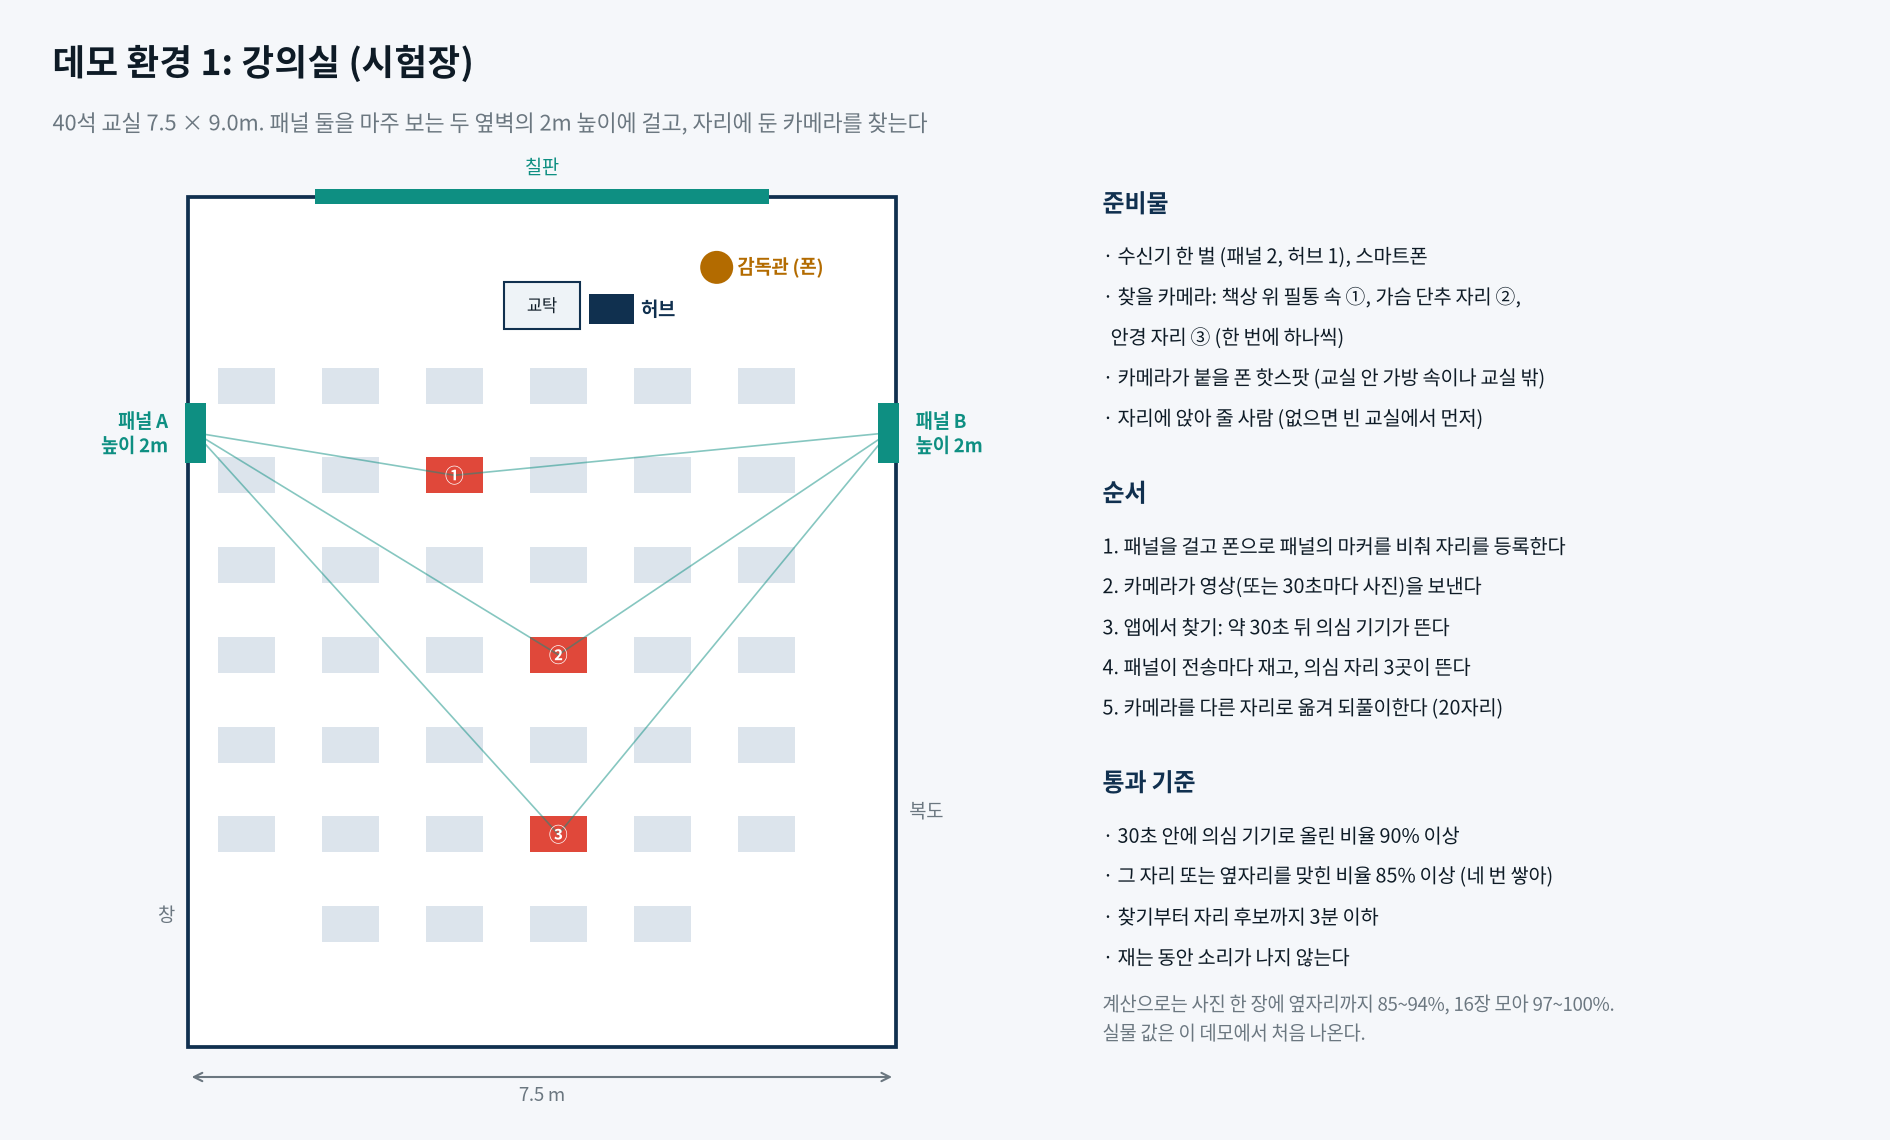
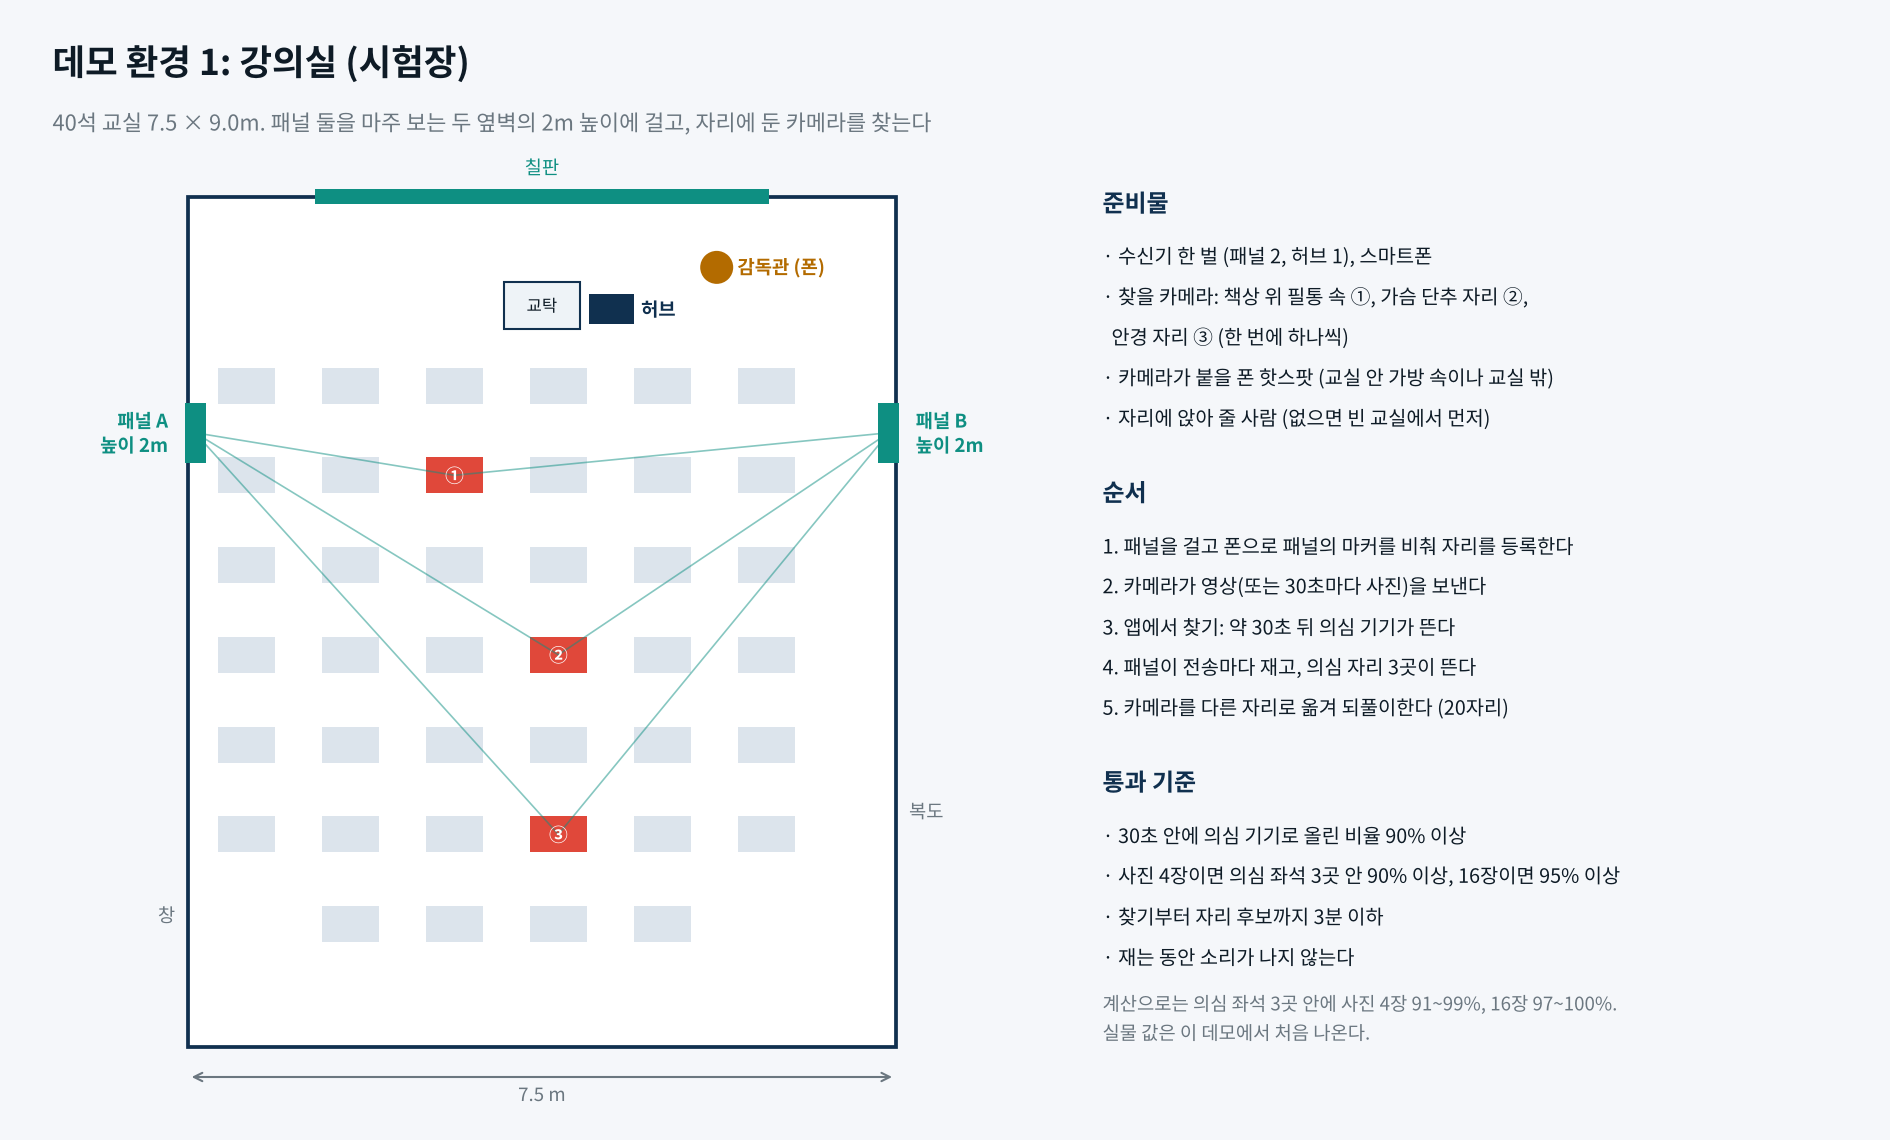
docs: 남은 옛 기준과 5 GHz 판 표현을 지금 결정에 맞춤 (#33)

diff --git a/cad/figures/design_figs.py b/cad/figures/design_figs.py
@@ -110,6 +110,7 @@ def sequence():
     for i in (4, 5): arrow(ax, (xs[i] + 2.55, 2.42), (xs[i + 1], 2.42))
     ax.text(xs[4], 1.62, "전송 한 번마다 3~7 을 되풀이한다 (사진 한 장을 보내는 0.2~1초 안에 한 번 잰다)", fontsize=9.5, color=AMBER, va="center")
     ax.text(0.35, 3.22, "1~2: 약 30초", fontsize=9.5, color=GRAY, va="center")
+    ax.text(xs[1] + 1.275, 3.335, "5 GHz 기기는 여기까지 (위치 재기는 막음)", fontsize=8.5, color=RED, ha="center", va="center")
     ax.plot([0.6, 11.4], [0.95, 0.95], color=LINE, lw=2)
     for t, lab in ((0, "첫 전송\n카메라를 알아챔"), (30, "둘째 전송\n첫 자리 후보"), (60, "셋째"), (90, "넷째"), (120, "다섯째\n네 번 쌓은 결과")):
         x = 0.9 + t * 0.076; ax.add_patch(Rectangle((x - 0.05, 0.8), 0.1, 0.3, fc=RED, ec="none")); ax.text(x, 0.6, "%d초" % t, fontsize=8.5, color=GRAY, ha="center"); ax.text(x + 0.12, 1.32, lab, fontsize=8.5, color=INK, va="center", linespacing=1.3)
@@ -215,8 +216,8 @@ def demo_class():
     tx = 7.35; y = 6.25
     y = block(ax, tx, y, "준비물", ["· 수신기 한 벌 (패널 2, 허브 1), 스마트폰", "· 찾을 카메라: 책상 위 필통 속 ①, 가슴 단추 자리 ②,", "  안경 자리 ③ (한 번에 하나씩)", "· 카메라가 붙을 폰 핫스팟 (교실 안 가방 속이나 교실 밖)", "· 자리에 앉아 줄 사람 (없으면 빈 교실에서 먼저)"])
     y = block(ax, tx, y, "순서", ["1. 패널을 걸고 폰으로 패널의 마커를 비춰 자리를 등록한다", "2. 카메라가 영상(또는 30초마다 사진)을 보낸다", "3. 앱에서 찾기: 약 30초 뒤 의심 기기가 뜬다", "4. 패널이 전송마다 재고, 의심 자리 3곳이 뜬다", "5. 카메라를 다른 자리로 옮겨 되풀이한다 (20자리)"])
-    y = block(ax, tx, y, "통과 기준", ["· 30초 안에 의심 기기로 올린 비율 90% 이상", "· 그 자리 또는 옆자리를 맞힌 비율 85% 이상 (네 번 쌓아)", "· 찾기부터 자리 후보까지 3분 이하", "· 재는 동안 소리가 나지 않는다"])
-    ax.text(tx, y + 0.08, "계산으로는 사진 한 장에 옆자리까지 85~94%, 16장 모아 97~100%.\n실물 값은 이 데모에서 처음 나온다.", fontsize=9, color=GRAY, va="center", linespacing=1.5)
+    y = block(ax, tx, y, "통과 기준", ["· 30초 안에 의심 기기로 올린 비율 90% 이상", "· 사진 4장이면 의심 좌석 3곳 안 90% 이상, 16장이면 95% 이상", "· 찾기부터 자리 후보까지 3분 이하", "· 재는 동안 소리가 나지 않는다"])
+    ax.text(tx, y + 0.08, "계산으로는 의심 좌석 3곳 안에 사진 4장 91~99%, 16장 97~100%.\n실물 값은 이 데모에서 처음 나온다.", fontsize=9, color=GRAY, va="center", linespacing=1.5)
     save(fig, "데모_환경_교실.png")
 
 

diff --git a/docs/다른 방법 검토.md b/docs/다른 방법 검토.md
@@ -20,7 +20,7 @@ tags:
 | 전파가 아닌 방법 | 렌즈 반사(LAPD), 열(HeatDeCam), 카메라 메모리가 내는 전자파(Eye of Sauron). 녹화만 하는 카메라까지 찾지만 가까이 가야 하거나 장비가 비싸다. 숙소 방의 보완으로 둔다 |
 | 그래서 무엇이 가장 좋나 | **패널 둘 + 의심 자리 세 곳만 감독관이 확인.** 사각지대를 더 줄여야 하면 셋째 패널(칠판 윗변 가운데)을 더한다. 천장은 필요 없다 ([배치 계산](배치%20계산.md)) |
 | 5 GHz 카메라를 찾나 | **찾는다 (있다·없다, 어느 기기).** ESP32-C5 가 2.4·5 GHz 를 다 받는다. 한 번에 한 대역이라 번갈아 듣는다. 동글이면 MT7610U |
-| 5 GHz 카메라의 자리까지 | **지금 판으로는 안 된다.** 안테나 판(CHW1010)이 2.4 GHz 전용이다. 5 GHz 판(패치 16개, 간격 29 mm)을 새로 만들면 계산상 2.4 GHz 와 거의 같다 (5절). 스위치(HMC7992, 6 GHz 까지)와 ESP32-C5 는 그대로 쓴다. 졸업작품에서는 판 하나를 시험 삼아 만드는 데까지로 둔다. 그때까지 5 GHz 기기는 위치 재기를 막는다 (재면 엉뚱한 자리가 나온다, 5.6절) |
+| 5 GHz 카메라의 자리까지 | **지금 판으로는 안 된다.** 안테나 판(CHW1010)이 2.4 GHz 전용이다. 두 대역 판(필름 안테나 16개, 33 mm)을 만들면 계산상 지금 판과 1~2점 차이다 (5.5절). ESP32-C5 는 그대로 쓴다. 작품 범위에서는 선택이다. 그때까지 5 GHz 기기는 위치 재기를 막는다 (재면 엉뚱한 자리가 나온다, 5.6절) |
 | 2.4 · 5 GHz 를 한 판으로 | **사서 쓰는 판은 없다** (CoreHW 판은 2.4 GHz 전용이고, Cisco 의 두 대역 배열은 자기 공유기 전용이다). **만들면 된다.** 4 × 4 를 33 mm 간격으로 두면 계산상 2.4 · 5.18 · 5.8 GHz 모두 지금 판과 1~2점 차이다 (지금 간격 37.5 mm 는 5.8 GHz 에서 3~5점 낮다). 두 대역 필름 안테나 16개 + 6 GHz 스위치로 패널 하나 약 23만 원. 기준 안테나 · 합침기 · 위상 선(0 · 11 · 30 · 58 mm)도 바꾼다. 데모 뒤의 일로 둔다 (5.5절) |
 | 5 GHz 카메라가 많나 | 적다. 찾아본 초소형 카메라는 거의 다 '2.4 GHz 만 된다'고 적혀 있다. 그런 카메라를 폰에 붙이려면 폰 핫스팟을 2.4 GHz 로 열어야 한다 |
 
@@ -194,7 +194,7 @@ tags:
 **권하는 길.**
 
 1. 데모(관문 1~5)는 지금 판과 지금 선(0 · 21 · 42 · 63 mm)으로 간다. 선을 미리 0 · 11 · 30 · 58 mm 로 바꾸면 2.4 GHz 하나로는 단계를 잴 수 없어 20~30도 틀린 채로 쓴다.
-2. 5 GHz 판은 데모가 된 뒤 ① 로 하나 만들어 본다. 그때 기준 안테나 · 합침기 · 위상 선을 함께 바꾸고, 펌웨어의 단계 재기를 여러 채널 묶음으로 바꾼다.
+2. 두 대역 판(선택 범위)은 데모가 된 뒤 ① 로 하나 만들어 본다. 그때 기준 안테나 · 합침기 · 위상 선을 함께 바꾸고, 펌웨어의 단계 재기를 여러 채널 묶음으로 바꾼다.
 3. 계산에 없는 것: 안테나끼리 서로 끼치는 영향(상호 결합), 쌍극과 반사판의 실제 무늬, 선 16가닥의 길이 차이. 아는 자리에 송신기를 두고 보정표를 한 번 만든다 (관문 4 의 대안과 같다).
 4. 보고된 폰 핫스팟의 5 GHz 는 거의 149~165번이다 ([TP-Link 커뮤니티](https://community.tp-link.com/en/home/forum/topic/866886)). 레이더를 피해야 하는 채널(DFS, 52~144번)이 아니므로 ([정리 글](https://jamesst.one/posts/dfs-wifi-channels)), 우리가 먼저 패킷을 쏘는 것도 그 채널에서는 규정 걱정이 적다.
 

diff --git a/docs/README.md b/docs/README.md
@@ -50,7 +50,7 @@ tags:
 - **부품은 다섯 번에 나눠 산다.** 가장 위험한 두 가지(ESP32-C5 가 ACK 의 CSI 를 내는가, 세기만으로 위상이 되찾아지는가)는 처음 6.6만 원 안에서 결판이 난다. 사기 전에 확인할 수 있는 것은 확인했다 ([사전 검증](사전%20검증.md)). 안 되어도 돌판으로 돌아가지 않고 받는 쪽만 바꾼다 ([되는지 근거와 대안](되는지%20근거와%20대안.md)).
 - **패널을 걸 곳을 다시 찾았다 (2026-11-18).** 네 벽의 세 높이와 천장, 후보 122곳의 두 곳·세 곳을 모두 견줬다. 사진을 16장 넘게 보내는 카메라라면 창 쪽 패널을 칠판 쪽으로 옮긴 두 곳이 사각지대를 없앤다 ([배치 계산](배치%20계산.md)). 천장은 필요 없다.
 - **몰카도 찾는다 (계산).** 숙소 방에서 패널 하나를 방 가운데에서 다섯 쪽으로 돌려 재면 가운데값 0.26 m, 두 곳에서 더 재면 0.21 m 다 ([숙소 방 계산](숙소%20방%20계산.md)).
-- **패널 말고 더 좋은 방법도 견줬다 (2026-11-18).** 패널 하나는 사진을 16장 모아도 자리를 65~69% 만 맞히고, 들고 다니는 방법들은 시험 중에 쓸 수 없다. 패널 둘 + 의심 자리 셋을 감독관이 확인하는 조합을 권한다. 5 GHz 카메라는 탐지는 되고, 자리는 5 GHz 판을 새로 만들면 계산상 2.4 GHz 와 거의 같다 ([다른 방법 검토](다른%20방법%20검토.md)). 두 대역을 다 듣는 판은 사서 쓸 것이 없어 만들어야 하고, 4 × 4 를 33 mm 간격으로 두면 2.4 · 5.18 · 5.8 GHz 모두 계산상 지금 판과 1~2점 차이다 (5.5절).
+- **패널 말고 더 좋은 방법도 견줬다 (2026-11-18).** 패널 하나는 사진을 16장 모아도 자리를 65~69% 만 맞히고, 들고 다니는 방법들은 시험 중에 쓸 수 없다. 패널 둘 + 의심 자리 셋을 감독관이 확인하는 조합을 권한다. 5 GHz 카메라는 탐지는 되고, 지금 판으로는 위치 재기를 막는다 (재면 엉뚱한 자리가 나온다, [다른 방법 검토](다른%20방법%20검토.md) 5.6절). 두 대역을 다 듣는 판은 사서 쓸 것이 없어 만들어야 하고, 4 × 4 를 33 mm 간격으로 두면 2.4 · 5.18 · 5.8 GHz 모두 계산상 지금 판과 1~2점 차이다 (5.5절).
 - **관문 1~5 를 사기 전에 자료로 판정했다.** 물리나 규격으로 막히는 관문은 없다. 가장 불확실한 것은 관문 2 의 숫자(ESP32-C5 의 CSI 세기가 얼마나 고른가)다 ([되는지 근거와 대안](되는지%20근거와%20대안.md) 6절).
 - 출력 파일 8개, 다섯 판(1·2판은 두 번), 약 22시간, 필라멘트 0.8 kg, 받침 없이 (Bambu X1 Carbon, PLA).
 - 장치 코드는 패널의 계산(`firmware/core/panel.py`)과 검사까지 있다. ESP32 에 올릴 코드와 허브의 패널 연결은 다음 일이다.

diff --git a/docs/데모 환경.md b/docs/데모 환경.md
@@ -11,7 +11,7 @@ tags:
 
 | 데모 | 보이려는 것 | 수신기 | 통과 기준 |
 |---|---|---|---|
-| 1. 강의실 | 40석 교실에서 시험지를 찍어 보내는 카메라가 **어느 자리**인지 | 패널 둘 + 허브 | 그 자리나 옆자리를 85% 이상 (전송 네 번을 쌓아) |
+| 1. 강의실 | 40석 교실에서 시험지를 찍어 보내는 카메라가 **어느 자리**인지 | 패널 둘 + 허브 | 의심 좌석 3곳 안에 90% 이상 (사진 네 장), 16장이면 95% 이상 |
 | 2. 숙소 방 | 방에 숨긴 카메라가 **벽·천장의 어디**인지 | 패널 하나 + 허브 | 가운데값 0.5 m 이하, 1 m 안 80% 이상 |
 | 3. 탁상 | 상자 셋 가운데 **어느 상자**에 카메라가 있는지 (발표 자리에서 2분) | 패널 하나 + 허브 | 열 번 가운데 아홉 번 |
 
@@ -48,10 +48,10 @@ tags:
 | 항목 | 기준 | 계산값 (위 자리, 2026-11-18) |
 |---|---|---|
 | 30초 안에 의심 기기로 오른다 | 90% 이상 | - |
-| 그 자리나 옆자리 (전송 한 번) | 70% 이상 | 책상 위 85, 가슴 85, 안경 94 |
-| 그 자리나 옆자리 (전송 네 번) | 85% 이상 | 93, 96, 99 |
-| 후보 셋 안에 그 자리 (전송 네 번) | 90% 이상 | 91, 97, 99 |
-| 후보 셋 안에 그 자리 (전송 16번) | 95% 이상 | 97, 99, 100 |
+| **후보 셋 안에 그 자리 (전송 네 번, 주 지표)** | 90% 이상 | 책상 위 91, 가슴 97, 안경 99 |
+| **후보 셋 안에 그 자리 (전송 16번, 주 지표)** | 95% 이상 | 97, 99, 100 |
+| 그 자리나 옆자리 (전송 한 번, 함께 적음) | 70% 이상 | 85, 85, 94 |
+| 그 자리나 옆자리 (전송 네 번, 함께 적음) | 85% 이상 | 93, 96, 99 |
 | 찾기부터 자리 후보까지 | 3분 이하 | 계속 보내면 1분, 30초마다 보내면 2분 30초 |
 | 재는 동안의 소리 | 나지 않는다 | 움직이는 부품이 없다 |
 

diff --git a/docs/탐지와 판별.md b/docs/탐지와 판별.md
@@ -11,7 +11,7 @@ tags:
 
 ## 1. 탐지: 둘레에서 카메라 후보 찾기
 
-**무엇으로 듣나.** 남의 프레임을 엿들으려면 모니터 모드가 되는 무선 동글이 있어야 한다. 이 동글은 듣기만 하고 아무것도 보내지 않는다. 패널의 ESP32-C5 가 엿듣기(promiscuous 모드)로 프레임의 길이와 세기를 낼 수 있으면 동글을 사지 않는다 (관문 1 에서 확인).
+**무엇으로 듣나.** 남의 프레임을 엿들으려면 모니터 모드가 되는 무선 동글이 있어야 한다. 이 동글은 듣기만 하고 아무것도 보내지 않는다. 동글은 꼭 산다 (2026-11-18): 패널의 ESP32-C5 는 위치를 재는 동안 한 채널에 묶여 채널을 돌며 엿들을 수 없고, 5 GHz 카메라는 탐지만 하므로 탐지가 확실해야 한다. ESP32-C5 의 엿듣기(promiscuous 모드)는 동글이 고장 났을 때의 대안이다 (관문 1 에서 확인).
 
 **어떻게 하나** (약 30초).
 
